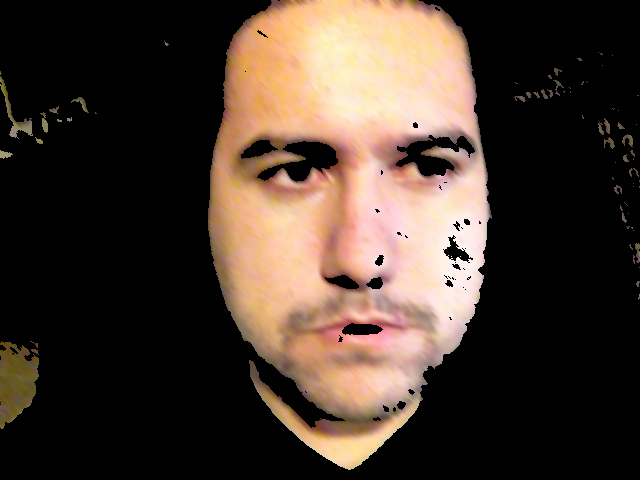
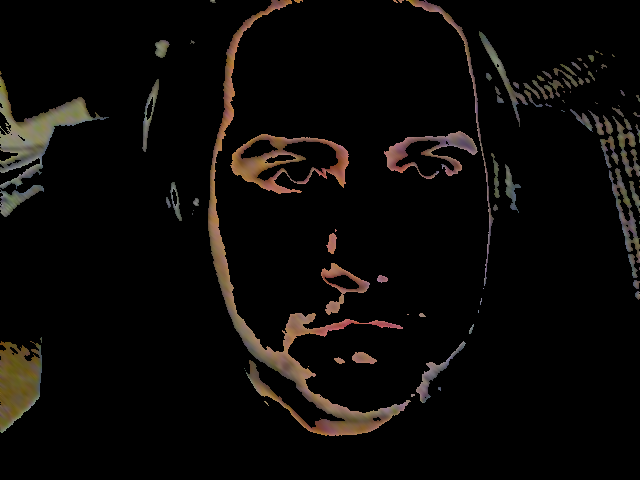
Novos valores para skin

diff --git a/Filtros/filtros.py b/Filtros/filtros.py
@@ -24,7 +24,7 @@ class Simple3ChannelsFilters:
 		Cr = 128 + (0.439*RGB[0] - 0.368*RGB[1] - 0.071*RGB[2]);
 		YCbCr = (Y, Cb, Cr)
 		#if ( (80 <= YCbCr[0]) and (YCbCr[0] <= 230) and (77 <= YCbCr[1]) and (YCbCr[1]  <= 127) and (133 <= YCbCr[2]) and (YCbCr[2] <=173) ):
-		if ( (80 <= YCbCr[0]) and (YCbCr[0] <= 230) and (77 <= YCbCr[1]) and (YCbCr[1]  <= 140) and (120 <= YCbCr[2]) and (YCbCr[2] <=173) ):
+		if ( (80 <= YCbCr[0]) and (YCbCr[0] <= 135) and (77 <= YCbCr[1]) and (YCbCr[1]  <= 140) and (120 <= YCbCr[2]) and (YCbCr[2] <=173) ):
 		    return RGB
 		else:
 		    return (0,0,0)

diff --git a/Filtros/teste.py b/Filtros/teste.py
@@ -1,7 +1,7 @@
 from proc_img import *
 
 
-myImg = MyImg("gaussianRGB--gaussianRGB--face2.JPG")
+myImg = MyImg("gaussianRGB--gaussianRGB--face.png")
 
 simple3CFilters = Simple3ChannelsFilters()
 
@@ -14,11 +14,10 @@ myImg.save()
 #myImg.save()
 
 
-"""RGB=[145,130,149]
+RGB=[120,124,107]
 Y = 16 + (0.257*RGB[0] + 0.504*RGB[1] + 0.098*RGB[2]);
 Cb = 128 + (-0.148*RGB[0] - 0.291*RGB[1] + 0.439*RGB[2]);
 Cr = 128 + (0.439*RGB[0] - 0.368*RGB[1] - 0.071*RGB[2]);
 YCbCr = (Y, Cb, Cr)
-print YCbCr"""
-
+print YCbCr
 
